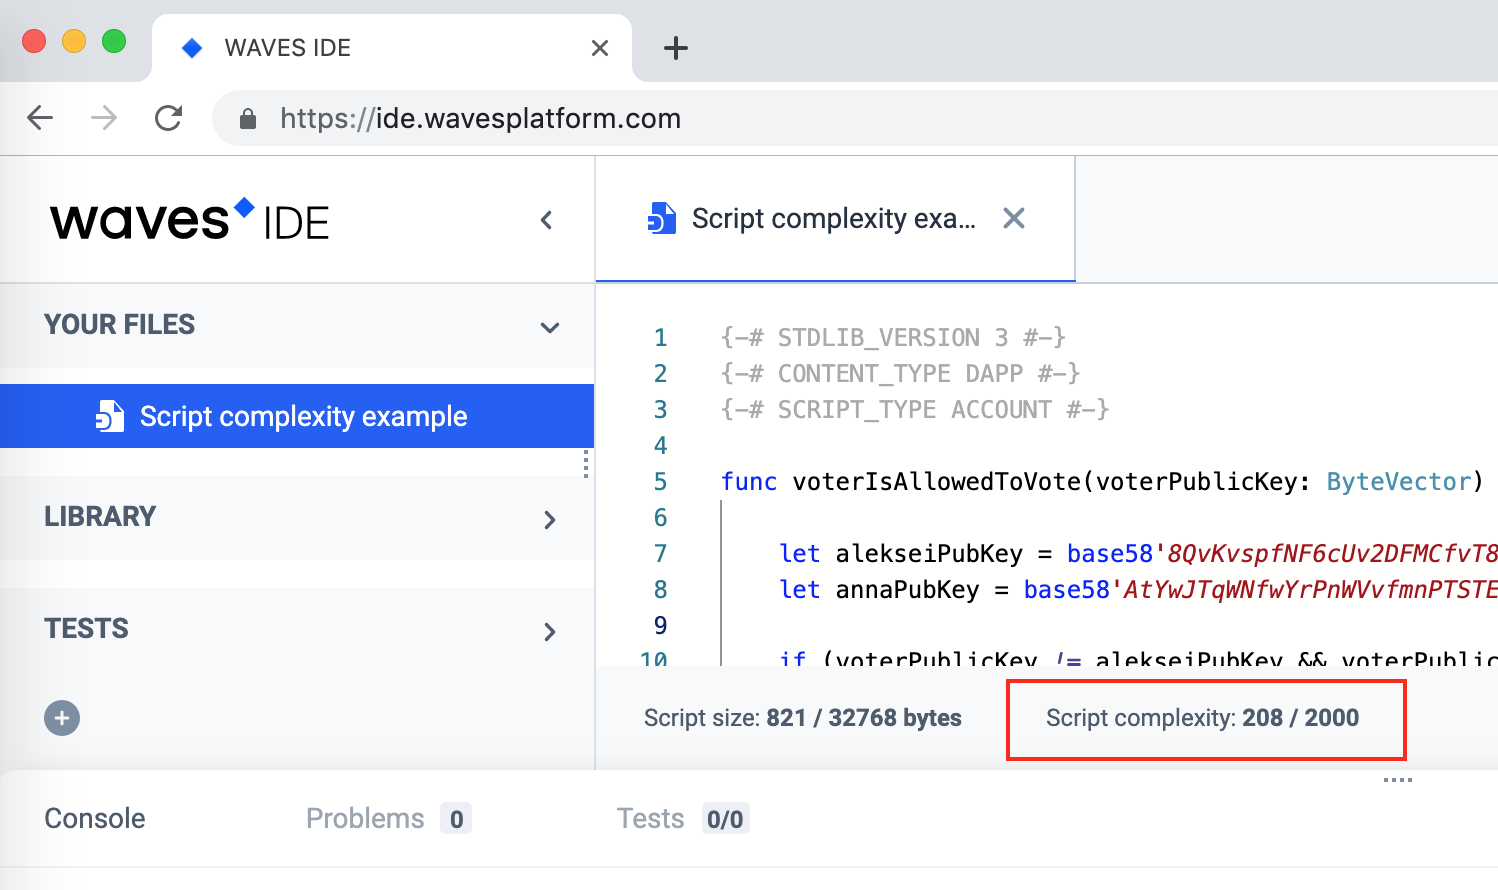
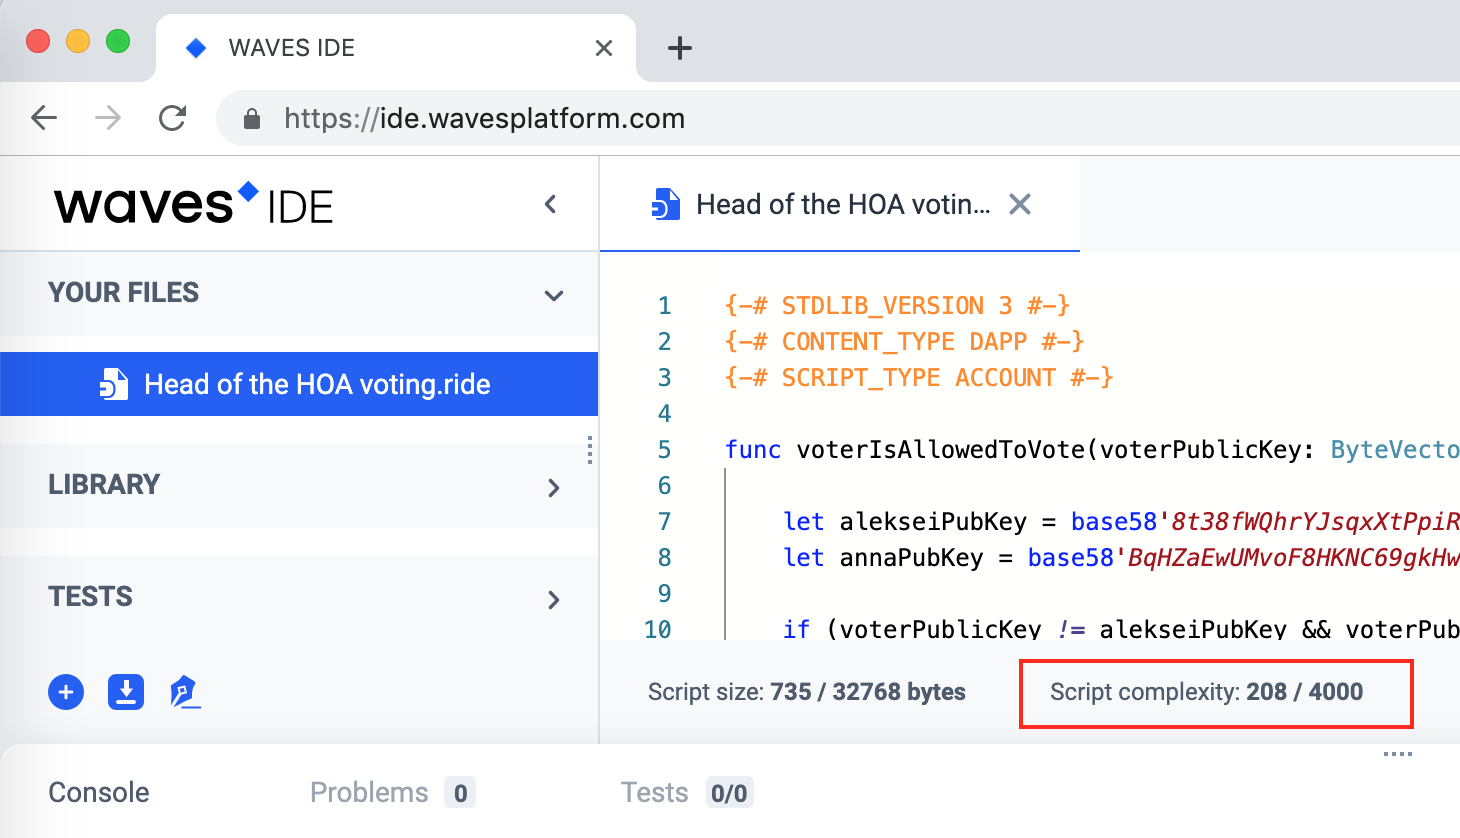
RIDE script (English)

diff --git a/en/ride/ride-script-complexity.md b/en/ride/ride-script-complexity.md
@@ -1,11 +1,9 @@
 # RIDE script complexity
 
-To estimate the computing resources that are required to execute a [RIDE script](/ride/ride-script.md), the term **script complexity** is used.
+**RIDE script complexity** is a dimensionless quantity that is used to estimate the computational resources that are needed to execute a [RIDE script](/ride/ride-script.md).
 
 The complexity of a RIDE script is estimated based on complexities of all the [operators](/ride/operators.md) and [functions](/ride/functions.md) it consists of.
 
-The complexity of a script can be seen in the [Waves IDE](https://ide.wavesplatform.com):
+The complexity of a script can be seen in the [Waves IDE](https://ide.wavesplatform.com); it is currently limited to 4000:
 
 <img src="img/ride-script-complexity/script-complexity.png" width="700"/>
-
-At the moment, the complexity of the script is limited to 2000.

diff --git a/en/SUMMARY.md b/en/SUMMARY.md
@@ -173,6 +173,8 @@
 ## RIDE
 
 * [About RIDE](ride/about-ride.md)
+* [RIDE script](ride/ride-script.md)
+* [RIDE script complexity](ride/ride-script-complexity.md)
 * [Immutable variables](ride/immutable-variables.md)
 * [Comments in code](ride/comments-in-code.md)
 * [Data types](ride/data-types.md)
@@ -186,8 +188,6 @@
   * [Encoding and decoding functions](ride/built-in-functions/encoding-and-decoding-functions.md)
   * [Math functions](ride/built-in-functions/math-functions.md)
 * [Exceptions](ride/exceptions.md)
-* [RIDE script](ride/ride-script.md)
-* [RIDE script complexity](ride/ride-script-complexity.md)
 
 ## Smart contracts (Waves dApps)
 

diff --git a/en/ride/ride-script.md b/en/ride/ride-script.md
@@ -1,5 +1,5 @@
 # RIDE scirpt
 
-**RIDE script** is a code written in [RIDE](/ride/about-ride.md) language.
+**RIDE script** is a code in [RIDE](/ride/about-ride.md) language.
 
-Any RIDE script has a certain [complexity](/ride/ride-script-complexity.md).
+RIDE script has [complexity](/ride/ride-script-complexity.md).
